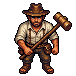
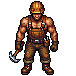
feat(D-ARTE-PIXEL-ART-MILITARES): obreiro refeito com martelada, cabra com ataque, pedreira em pixel art; a depuracao vence o atlas real
- Obreiro novo (PixelLab v3, inspirado na imagem do operador): parado, andar e trabalhar (martelada,
  8 quadros) nas 5 direcoes. O render ja escolhia `trabalhar` ao nivelar e martelar.
- Cabra (militia): parado, andar e atacar.
- Pedreira: os dois estados convertidos em pixel art sem redesenho (tools/arte/pixelar-predio.py:
  bloco 2x2, 40 cores, contorno de 1 pixel); as versoes pintadas continuam no disco.
- Com atlas real no cabra e no obreiro, o ?depuracao trocava o atlas de depuracao pelo real na
  carga tardia (WorldScene, atlasesDisponiveis) e o D-TELA-05c falhava. O atlas de depuracao agora
  vence nos dois pontos (preload e carga tardia); tabela em tests/D-ARTE-PIXEL-ART-MILITARES.

diff --git a/src/render/scenes/WorldScene.ts b/src/render/scenes/WorldScene.ts
@@ -345,12 +345,13 @@ export class WorldScene extends Phaser.Scene {
     });
     const depuracao = depuracaoRegistrada();
     const tipos = tiposPresentes(this.ponte.atual);
+    const daDepuracao = new Set<string>();
     if (depuracao && depuracaoDeUnidade(window.location.search)) {
       for (const a of depuracao.atlases ?? [depuracao.atlas]) {
-        if([...tipos].some((id)=>a.chave===`unidade:${id}:atlas`)) this.load.atlas(a.chave, a.url, a.dados);
+        if([...tipos].some((id)=>a.chave===`unidade:${id}:atlas`)) { this.load.atlas(a.chave, a.url, a.dados); daDepuracao.add(a.chave); }
       }
     }
-    for (const a of atlasesParaCarregar()) if([...tipos].some((id)=>a.chave===`unidade:${id}:atlas`)) this.load.atlas(a.chave, a.url, a.dados);
+    for (const a of atlasesParaCarregar(undefined, undefined, undefined, daDepuracao)) if([...tipos].some((id)=>a.chave===`unidade:${id}:atlas`)) this.load.atlas(a.chave, a.url, a.dados);
     for (const textura of texturasParaCarregar(manifestoDoJogo, undefined, this.prediosSemArte, tipos)) {
       this.load.image(textura.chave, textura.url);
     }
@@ -465,7 +466,8 @@ export class WorldScene extends Phaser.Scene {
     this.load.on('filecomplete',concluiu);this.load.on('loaderror',falhou);
     this.events.once(Phaser.Scenes.Events.SHUTDOWN,()=>{this.load.off('filecomplete',concluiu);this.load.off('loaderror',falhou);});
     const dep=depuracaoRegistrada();
-    const atlasesDisponiveis=[...atlasesParaCarregar(),...(dep?.atlases ?? [])];
+    // D-ARTE-PIXEL-ART-MILITARES: o atlas de depuracao vence o real do mesmo tipo tambem na carga tardia
+    const atlasesDisponiveis=[...(dep?.atlases ?? []),...atlasesParaCarregar(undefined,undefined,undefined,new Set((dep?.atlases ?? []).map((a)=>a.chave)))];
     let estadoDaCarga: GameState | null | undefined;
     let partidaDaCarga = -1;
     // F26b: o anel dos selecionados e a caixa ficam ACIMA de tudo do mundo

diff --git a/tests/D-ARTE-PIXEL-ART-MILITARES.test.ts b/tests/D-ARTE-PIXEL-ART-MILITARES.test.ts
@@ -1,0 +1,29 @@
+import { describe, expect, it } from 'vitest';
+import { readFileSync } from 'node:fs';
+import { atlasesParaCarregar } from '../src/render/sprites';
+import { chaveDoAtlas } from '../src/render/animacao-de-unidade';
+import { assetDaCamada, type Manifesto } from '../src/render/manifesto';
+
+const real = JSON.parse(readFileSync('assets/manifest.json', 'utf8')) as Manifesto;
+const atlas = (id: string) => assetDaCamada(real, 'unidade', id)?.atlas as string;
+const dados = Object.fromEntries(['militia', 'laborer', 'serf'].map((id) =>
+  [atlas(id), JSON.parse(readFileSync(`assets/${atlas(id)}`, 'utf8')) as object]));
+const urls = Object.fromEntries(['militia', 'laborer', 'serf'].map((id) =>
+  [`sprites/units/${id}/${id}.png`, `/${id}.png`]));
+const chaves = (fila: ReadonlySet<string>) => atlasesParaCarregar(real, urls, dados, fila).map((a) => a.chave).sort();
+
+describe('D-ARTE-PIXEL-ART-MILITARES — o atlas de depuracao vence o real do mesmo tipo', () => {
+  it.each([
+    ['sem depuracao, os tres reais', [], ['laborer', 'militia', 'serf']],
+    ['depuracao do militia tira so o real dele', ['militia'], ['laborer', 'serf']],
+    ['depuracao do militia e do laborer', ['militia', 'laborer'], ['serf']],
+    ['depuracao de tipo sem atlas real nao muda nada', ['woodcutter'], ['laborer', 'militia', 'serf']],
+  ])('%s', (_nome, depuracao, esperado) => {
+    expect(chaves(new Set(depuracao.map(chaveDoAtlas)))).toEqual(esperado.map(chaveDoAtlas));
+  });
+
+  it('o cabra e o obreiro novos tem atlas com a acao deles (atacar, trabalhar)', () => {
+    expect(Object.keys(assetDaCamada(real, 'unidade', 'militia')?.animacoes ?? {})).toContain('atacar');
+    expect(Object.keys(assetDaCamada(real, 'unidade', 'laborer')?.animacoes ?? {})).toContain('trabalhar');
+  });
+});

diff --git a/src/render/sprites.ts b/src/render/sprites.ts
@@ -27,9 +27,11 @@ export interface TexturaParaCarregar {
 export interface AtlasParaCarregar extends TexturaParaCarregar { readonly dados: object }
 export function atlasesParaCarregar(manifesto: Manifesto = manifestoDoJogo,
   urls: Readonly<Record<string,string>> = urlsDeSprites,
-  dados: Readonly<Record<string,object>> = dadosDosAtlases): AtlasParaCarregar[] {
+  dados: Readonly<Record<string,object>> = dadosDosAtlases,
+  /** D-ARTE-PIXEL-ART-MILITARES: chaves ja enfileiradas pela depuracao; o atlas dela vence o real. */
+  jaNaFila: ReadonlySet<string> = new Set()): AtlasParaCarregar[] {
   return manifesto.assets.flatMap((a) => {
-    if (a.tipo !== 'unidade' || !a.atlas || !dados[a.atlas]) return [];
+    if (a.tipo !== 'unidade' || !a.atlas || !dados[a.atlas] || jaNaFila.has(chaveDoAtlas(a.id))) return [];
     const atlas = dados[a.atlas] as { meta?: { image?: string } };
     const image = atlas.meta?.image;
     if (!image || image.includes('..') || image.includes('/') || image.includes('\\')) return [];

diff --git a/tools/arte/pixelar-predio.py b/tools/arte/pixelar-predio.py
@@ -1,0 +1,36 @@
+"""Converte a pedreira pintada em pixel art SEM redesenhar: reduz a resolucao (cada pixel novo = um bloco
+NxN), quantiza numa paleta curta comum aos dois estados, endurece a borda do alfa e amplia por vizinho."""
+import sys
+from pathlib import Path
+from PIL import Image, ImageFilter, ImageEnhance
+WT = Path(__file__).resolve().parents[2]
+FONTES = {'completo': WT / 'assets/base/quarry/quarry-D-master-2x.png',
+          'madeira': WT / 'assets/sprites/quarry/quarry_madeira-D-preview.png'}
+W, H = 192, 176
+
+def pixelar(im, bloco, cores, paleta=None):
+    im = im.convert('RGBA').resize((W, H), Image.LANCZOS)
+    alfa = im.getchannel('A')
+    im = ImageEnhance.Contrast(im.convert('RGB').filter(ImageFilter.UnsharpMask(2, 160, 2))).enhance(1.12).convert('RGBA')
+    im.putalpha(alfa)
+    p = im.resize((W // bloco, H // bloco), Image.BOX)
+    a = p.getchannel('A').point(lambda v: 255 if v >= 128 else 0)
+    rgb = Image.new('RGB', p.size, (0, 0, 0)); rgb.paste(p.convert('RGB'), mask=a)
+    q = rgb.quantize(colors=cores, method=Image.MEDIANCUT, dither=Image.NONE) if paleta is None \
+        else rgb.quantize(palette=paleta, dither=Image.NONE)
+    out = q.convert('RGBA'); out.putalpha(a)
+    # contorno de 1 pixel escuro na silhueta, como a arte das unidades (selective outline)
+    px = out.load(); w, h = out.size
+    borda = [(x, y) for y in range(h) for x in range(w) if px[x, y][3]
+             and any(not (0 <= x + dx < w and 0 <= y + dy < h) or px[x + dx, y + dy][3] == 0
+                     for dx, dy in ((1, 0), (-1, 0), (0, 1), (0, -1)))]
+    for x, y in borda:
+        r, g, b, _ = px[x, y]; px[x, y] = (int(r * .35), int(g * .3), int(b * .28), 255)
+    return out.resize((W, H), Image.NEAREST), q
+
+bloco, cores = int(sys.argv[1]), int(sys.argv[2])
+res = {}
+c, pal = pixelar(Image.open(FONTES['completo']), bloco, cores)
+res['completo'] = c
+res['madeira'], _ = pixelar(Image.open(FONTES['madeira']), bloco, cores, pal)
+for k, v in res.items(): v.save(f'pedreira-{k}-b{bloco}-c{cores}.png')
